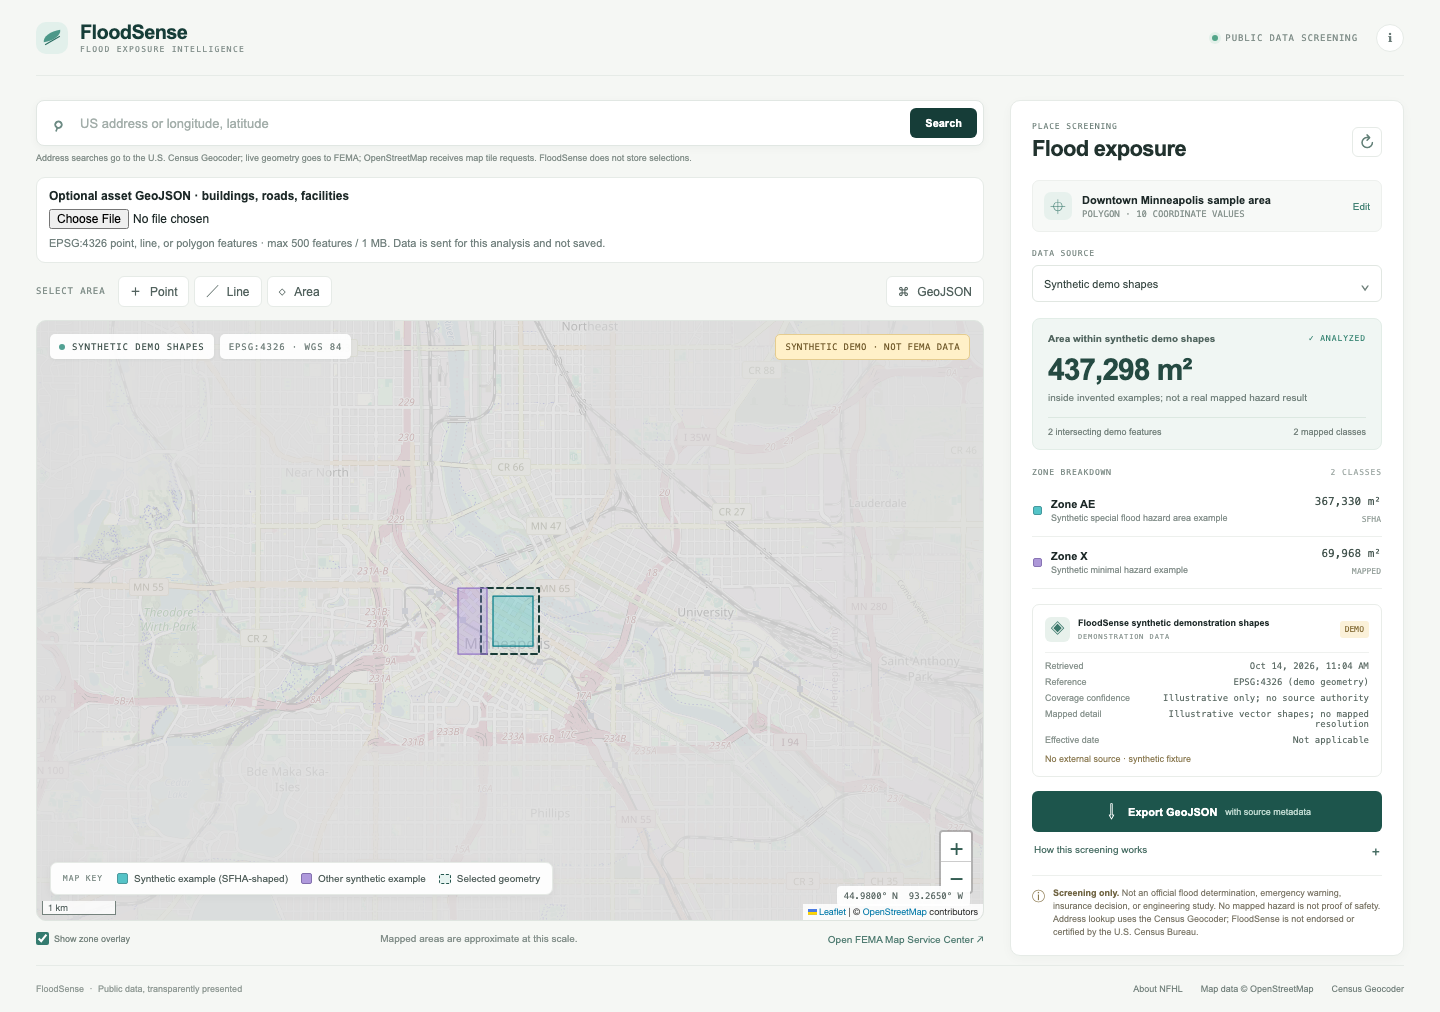
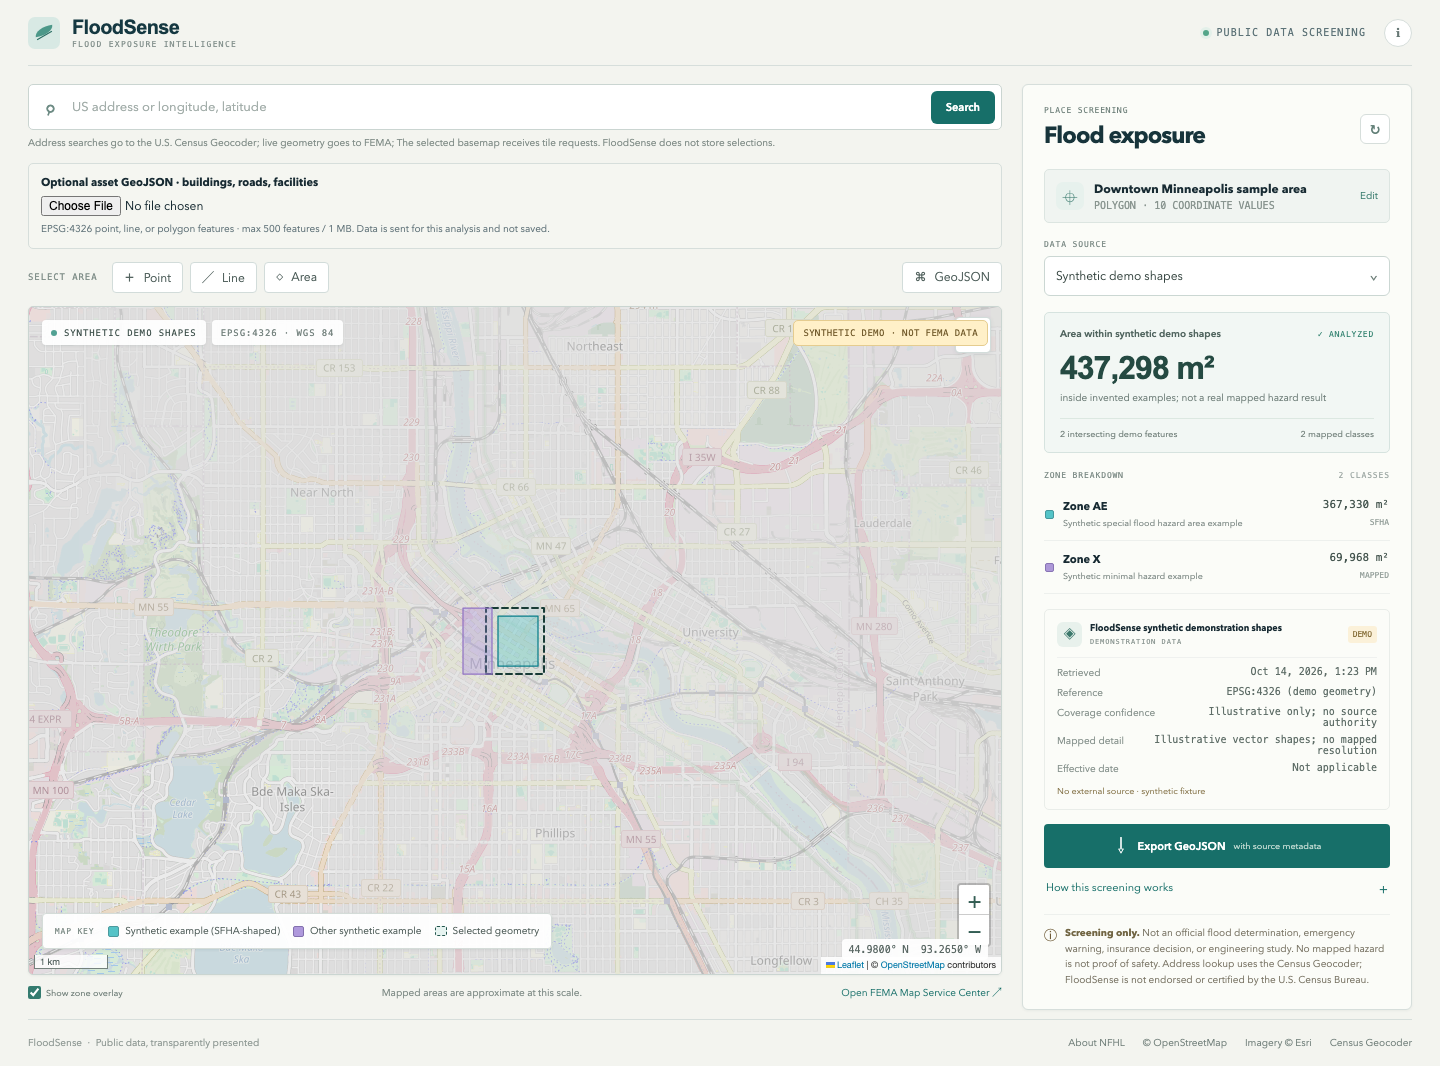
Polish FloodSense screening interface

diff --git a/src/style.css b/src/style.css
@@ -314,6 +314,8 @@ a {
   background: #fffd;
   padding: 2px 5px;
 }
+.leaflet-control-layers { border: 1px solid #d2dcda !important; border-radius: 4px !important; box-shadow: 0 1px 4px #193b3b16 !important; }
+.leaflet-control-layers-toggle { width: 34px !important; height: 34px !important; background-size: 20px 20px !important; }
 .map-shell .leaflet-control-scale-line {
   border: 1px solid #75827d;
   border-top: 0;
@@ -1170,3 +1172,15 @@ a {
   border-radius: 50%;
   background: #e7af58;
 }
+
+/* FloodSense is a map-first field instrument, with zone colors kept semantic. */
+:root{font-family:Inter,'Avenir Next',Arial,sans-serif;color:#182b33;background:#f3f4ef;--ink:#182b33;--muted:#65777d;--line:#d6dedb;--green:#166f69;--deep:#123b42;--mint:#e3efec;--gold:#c18a33;--surface:#fbfcf8}
+body{background:#f3f4ef;color:#182b33;font-size:14px}
+.app-shell{padding:0 28px}.topbar{height:66px;border-color:#d6dedb}.brand{color:#153841}.brand-mark{background:#d8e9e4;border-radius:7px}.live-indicator{color:#5d7378;font-size:10px;letter-spacing:.11em}
+.workspace{grid-template-columns:minmax(0,1fr) 390px;gap:20px;padding-top:18px}.map-column{min-width:0}.map-wrap{border:1px solid #cad5d1;border-radius:5px;box-shadow:0 1px 3px #17393a0d}.analysis-panel{background:#fbfcf8;border-color:#d6dedb;border-radius:6px;box-shadow:0 1px 3px #17393a0d;padding:21px}.panel-heading h1{font-family:Inter,'Avenir Next',Arial,sans-serif;font-size:23px;letter-spacing:-.04em;color:#17343b}
+.search-box,.asset-upload,.location-card,.summary-card,.source-card{border-radius:5px;box-shadow:none}.search-box{border-color:#cad5d1}.search-box button,.finish-button,.small-primary{background:#176f69;border-color:#176f69}.asset-upload{background:#f5f6f1;border-color:#d6dedb}.asset-upload label{font-size:11px}.asset-upload small,.search-disclosure{font-size:10px;line-height:1.5}.map-tool-row{gap:7px}.tool{border-color:#d2dcda;border-radius:4px}.tool.active{background:#e0eeeb;border-color:#77aaa1;color:#125c58}.tool-label,.eyebrow,.summary-check,.map-tag,.legend strong{letter-spacing:.1em}.map-tag,.legend{border-color:#d4dcd8;border-radius:4px;box-shadow:0 1px 3px #193b3b16}.legend{font-size:10px}.legend span{font-size:10px}.map-foot{font-size:10px}.map-foot a{color:#176f69}.map-coordinates{font-size:10px}.location-card{background:#f0f4f1;border-color:#dce5e1}.location-card strong{font-size:12px}.location-card small{font-size:10px}.source-select select{min-height:40px;border-color:#cbd7d3;font-size:12px}.summary-card{border-color:#d6e3df;background:#f2f7f4}.summary-number{font-size:32px;font-variant-numeric:tabular-nums}.summary-top,.summary-unit,.source-meta div,.source-card a{font-size:10px}.source-meta strong{font-size:10px}.disclaimer{color:#6e5b37}.disclaimer p{font-size:10px;line-height:1.55}.export-button{background:#176f69;border-radius:4px;min-height:44px}.export-button:disabled{background:#b9c8c2}.text-button,.method-copy{font-size:11px}.text-button{color:#176f69}.footer{font-size:10px}.icon-button:focus-visible,.tool:focus-visible,.search-box button:focus-visible,.export-button:focus-visible{outline:3px solid #42958d;outline-offset:2px}
+@media(max-width:1100px){.app-shell{padding:0 18px}.workspace{grid-template-columns:minmax(0,1fr) 350px;gap:14px}}
+@media(max-width:850px){.app-shell{padding:0 14px}.workspace{grid-template-columns:1fr}.map-wrap{min-height:56vh}.analysis-panel{background:#fbfcf8}}
+@media(max-width:520px){.app-shell{padding:0 10px}.analysis-panel{padding:15px}.map-wrap{min-height:420px}.legend span{font-size:9px}.search-box{height:44px}.map-coordinates{top:52px;bottom:auto;right:8px}}
+.map-shell .leaflet-tile-pane{filter:none}
+.synthetic-banner{pointer-events:none}

diff --git a/src/main.tsx b/src/main.tsx
@@ -77,22 +77,28 @@ function FloodMap({
     const mapHandle = map as MapHandle;
     mapRef.current = mapHandle;
     L.control.zoom({ position: 'bottomright' }).addTo(map);
-    const tiles = L.tileLayer(tileUrl, {
+    const streets = L.tileLayer(tileUrl, {
       maxZoom: 19,
-      attribution:
-        '&copy; <a href="https://www.openstreetmap.org/copyright">OpenStreetMap</a> contributors'
+      attribution: '&copy; <a href="https://www.openstreetmap.org/copyright">OpenStreetMap</a> contributors'
     }).addTo(map);
+    const imagery = L.tileLayer('https://server.arcgisonline.com/ArcGIS/rest/services/World_Imagery/MapServer/tile/{z}/{y}/{x}', {
+      maxZoom: 19,
+      attribution: 'Imagery &copy; <a href="https://www.esri.com/">Esri</a>, Maxar, Earthstar Geographics, and the GIS User Community'
+    });
+    L.control.layers({ 'Street map': streets, 'Satellite imagery': imagery }, undefined, { collapsed: true }).addTo(map);
     const tileWarning = new L.Control({ position: 'topright' });
     tileWarning.onAdd = () => {
       const node = L.DomUtil.create('div', 'basemap-warning');
       node.textContent = 'Basemap unavailable · geometry and results remain usable';
       node.hidden = true;
-      tiles.on('tileerror', () => {
+      streets.on('tileerror', () => {
         node.hidden = false;
       });
-      tiles.on('tileload', () => {
+      streets.on('tileload', () => {
         node.hidden = true;
       });
+      imagery.on('tileerror', () => { node.hidden = false; });
+      imagery.on('tileload', () => { node.hidden = true; });
       return node;
     };
     tileWarning.addTo(map);
@@ -228,7 +234,7 @@ function FloodMap({
 function App() {
   const [geometry, setGeometry] = useState<FloodFeature>(START);
   const [result, setResult] = useState<AnalysisResult | null>(null);
-  const [mode, setMode] = useState<'live' | 'synthetic'>('live');
+  const [mode, setMode] = useState<'live' | 'synthetic'>('synthetic');
   const [showZones, setShowZones] = useState(true);
   const [drawMode, setDrawMode] = useState<DrawMode>('');
   const [center, setCenter] = useState<[number, number]>([44.98, -93.265]);
@@ -473,7 +479,7 @@ function App() {
             </form>
             <p className="search-disclosure">
               Address searches go to the U.S. Census Geocoder; live geometry goes to FEMA;
-              OpenStreetMap receives map tile requests. FloodSense does not store selections.
+              The selected basemap receives tile requests. FloodSense does not store selections.
             </p>
             <div className="asset-upload">
               <label htmlFor="asset-file">
@@ -966,7 +972,10 @@ function App() {
             About NFHL
           </a>
           <a href="https://www.openstreetmap.org/copyright" target="_blank" rel="noreferrer">
-            Map data © OpenStreetMap
+            © OpenStreetMap
+          </a>
+          <a href="https://support.esri.com/en-us/knowledge-base/what-is-the-correct-way-to-cite-an-arcgis-online-basema-000012040" target="_blank" rel="noreferrer">
+            Imagery © Esri
           </a>
           <a
             href="https://geocoding.geo.census.gov/geocoder/Geocoding_Services_API.html"

diff --git a/test/e2e/workflow.spec.js b/test/e2e/workflow.spec.js
@@ -6,6 +6,11 @@ import { expect, test } from '@playwright/test';
 test('sample area → explicit demo source → metadata → provenance export', async ({ page }) => {
   await page.goto('/');
   await expect(page.getByRole('heading', { name: 'Flood exposure' })).toBeVisible();
+  await expect(page.getByText('SYNTHETIC DEMO · NOT FEMA DATA')).toBeVisible();
+  await expect(page.getByText('Area within synthetic demo shapes')).toBeVisible();
+  await page.locator('.leaflet-control-layers-toggle').click({ force: true });
+  await page.getByLabel('Satellite imagery').check();
+  await page.getByLabel('Street map').check();
   await page.getByLabel('DATA SOURCE').selectOption('synthetic');
   await expect(page.getByText('SYNTHETIC DEMO · NOT FEMA DATA')).toBeVisible();
   await expect(page.getByText('FloodSense synthetic demonstration shapes')).toBeVisible();
@@ -75,4 +80,17 @@ test('uploaded asset GeoJSON is screened against the selected demo zones', async
   await expect(page.getByText('ASSET-LEVEL SCREENING')).toBeVisible();
   await expect(page.getByText('USER DATA · SYNTHETIC ZONES')).toBeVisible();
   await expect(page.getByText('1 uploaded · 0 outside the selected area')).toBeVisible();
+});
+
+test('first visit is a labeled working example and fits a phone screen', async ({ page }) => {
+  await page.setViewportSize({ width: 720, height: 900 });
+  await page.goto('/');
+  await expect(page.getByText('SYNTHETIC DEMO · NOT FEMA DATA')).toBeVisible();
+  expect(await page.evaluate(() => document.documentElement.scrollWidth)).toBeLessThanOrEqual(720);
+  await page.setViewportSize({ width: 390, height: 844 });
+  await page.goto('/');
+  await expect(page.getByText('SYNTHETIC DEMO · NOT FEMA DATA')).toBeVisible();
+  await expect(page.getByText('Area within synthetic demo shapes')).toBeVisible();
+  expect(await page.evaluate(() => document.documentElement.scrollWidth)).toBeLessThanOrEqual(390);
+  await page.screenshot({ path: 'docs/screenshots/mobile.png', fullPage: true });
 });

diff --git a/server/index.ts b/server/index.ts
@@ -25,6 +25,7 @@ const tileOrigin = new URL(
   TILE_URL.replaceAll('{z}', '0').replaceAll('{x}', '0').replaceAll('{y}', '0')
 ).origin;
 if (!tileOrigin.startsWith('https://')) throw new Error('VITE_TILE_URL must use HTTPS.');
+const tileOrigins = [...new Set([tileOrigin, 'https://server.arcgisonline.com', 'https://tile.openstreetmap.org'])].join(' ');
 const cache = new Map<string, { at: number; result: AnalysisResult }>();
 const requests = new Map<string, number[]>();
 let liveQueries = 0;
@@ -44,7 +45,7 @@ app.use((req: Request, res: Response, next: NextFunction) => {
     'Referrer-Policy': 'strict-origin-when-cross-origin',
     'X-Frame-Options': 'DENY',
     'Permissions-Policy': 'camera=(), microphone=(), geolocation=()',
-    'Content-Security-Policy': `default-src 'self'; script-src 'self'; style-src 'self' 'unsafe-inline'; img-src 'self' data: blob: ${tileOrigin}; connect-src 'self'; font-src 'self'; object-src 'none'; base-uri 'self'; frame-ancestors 'none'`
+    'Content-Security-Policy': `default-src 'self'; script-src 'self'; style-src 'self' 'unsafe-inline'; img-src 'self' data: blob: ${tileOrigins}; connect-src 'self'; font-src 'self'; object-src 'none'; base-uri 'self'; frame-ancestors 'none'`
   });
   const origin = req.get('origin');
   const allowed = process.env.ALLOWED_ORIGIN

diff --git a/docs/data-sources.md b/docs/data-sources.md
@@ -6,7 +6,8 @@ Endpoints below were checked on 2026-10-14. FloodSense does not mirror or redist
 | -------------------------------------------------------------------------------------------------------------------------------------------- | ---------------------------------------------------------------------------------------------------------------------------- | ----------------------------------------------------------------------------------------------------------------------------------------------------------------------------------------------------------------------------------------------------------------------------------- | ----------------------------------------------------------------------------------------------------------------------------------------------------------------------------------------------------------------------------------------------------------------------------------------------------------------- |
 | [FEMA NFHL public ArcGIS REST service](https://hazards.fema.gov/arcgis/rest/services/public/NFHL/MapServer) — layer 28, “Flood Hazard Zones” | Effective mapped vector zones; `FLD_ZONE`, `ZONE_SUBTY`, `SFHA_TF`, and `DFIRM_ID`; query returns geometry for intersections | Layer source spatial reference is EPSG:4269 (NAD83); output requested in EPSG:4326. Effective data and map currency vary by panel. Flood-zone layer does not provide a single uniform raster resolution or panel effective date. Live query with a five-minute in-memory app cache. | [FEMA dataset catalog](https://catalog.data.gov/dataset/national-flood-hazard-layer) lists the dataset as public and links the U.S. Government Works license. Attribute as “Source: FEMA National Flood Hazard Layer (NFHL).” Direct REST service use and service limits should be rechecked before changing use. |
 | [U.S. Census Geocoder](https://geocoding.geo.census.gov/geocoder/Geocoding_Services_API.html)                                                | Single-line US address to matched address and coordinate; public-address-range benchmark                                     | Result is an address-range coordinate, not a rooftop/survey point. Benchmark is `Public_AR_Current`, and can change over time.                                                                                                                                                      | Use only for address lookup. The app says FloodSense is not endorsed or certified by the Census Bureau and links the [API terms](https://www.census.gov/data/developers/about/terms-of-service.html). Addresses are not stored by FloodSense.                                                                     |
-| [OpenStreetMap standard tiles and map data](https://www.openstreetmap.org/copyright)                                                         | Background map only; not used in exposure calculations                                                                       | Viewport-dependent requests to the required `https://tile.openstreetmap.org/{z}/{x}/{y}.png` URL; browser caching follows the provider's HTTP headers                                                                                                                               | © OpenStreetMap contributors. Follow the [tile usage policy](https://operations.osmfoundation.org/policies/tiles/), display attribution, and do not bulk download or prefetch tiles. Standard tiles are best-effort with no SLA; production traffic may need another permitted tile host.                         |
+| [OpenStreetMap standard tiles and map data](https://www.openstreetmap.org/copyright)                                                         | Default street-map background only; not used in exposure calculations                                                        | Viewport-dependent requests to `https://tile.openstreetmap.org/{z}/{x}/{y}.png`; browser caching follows the provider's HTTP headers                                                                                              | © OpenStreetMap contributors. Follow the [tile usage policy](https://operations.osmfoundation.org/policies/tiles/), display attribution, and do not bulk download or prefetch tiles. Standard tiles are best-effort with no SLA; production traffic may need another permitted tile host.                         |
+| [Esri World Imagery](https://support.esri.com/en-us/knowledge-base/what-is-the-correct-way-to-cite-an-arcgis-online-basema-000012040)           | Optional imagery basemap only; not used in exposure calculations                                                              | Source imagery and capture dates vary by location; viewport-dependent tile requests                                                                                                                                                | Show Esri and source-provider attribution; review current [Esri terms](https://www.esri.com/en-us/legal/terms/full-master-agreement) and service limits before high-volume production use.                                                                                                                                           |
 | FloodSense synthetic shapes                                                                                                                  | Demonstration fixture only; never represented as public hazard observations                                                  | Invented EPSG:4326 polygons near the Minneapolis sample viewport; no resolution, effective date, or source confidence                                                                                                                                                               | Original illustrative geometry. The UI labels every result as synthetic and not FEMA data. It is sent only when the user explicitly selects demo mode.                                                                                                                                                            |
 
 ## Source status checked

diff --git a/README.md b/README.md
@@ -2,13 +2,15 @@
 
 FloodSense is a map-based screening tool for exploring mapped flood-zone overlap around places and infrastructure. It is an educational screening application, **not** an official flood determination, emergency warning, insurance decision, engineering study, or substitute for local authorities.
 
-The starting sample is Downtown Minneapolis. Search a US street address with the U.S. Census Geocoder, or enter `longitude, latitude` in EPSG:4326. Draw a point, line, or polygon on the map, or use the GeoJSON editor as a keyboard-operable alternative. Choose FEMA effective flood zones for live results or explicitly select the clearly labeled synthetic demo shapes. Optionally load a bounded GeoJSON FeatureCollection (up to 500 point, line, or polygon assets / 1 MB) to screen user-supplied buildings, roads, or facilities against the returned polygons.
+The starting sample is Downtown Minneapolis with an explicitly labeled synthetic example, so the first visit works without an external provider. Choose FEMA effective flood zones for live results. Search a US street address with the U.S. Census Geocoder, or enter `longitude, latitude` in EPSG:4326. Draw a point, line, or polygon on the map, or use the GeoJSON editor as a keyboard-operable alternative. Optionally load a bounded GeoJSON FeatureCollection (up to 500 point, line, or polygon assets / 1 MB) to screen user-supplied buildings, roads, or facilities against the returned polygons.
 
 ## Sample screen
 
 The screenshot below is from the E2E demo flow. All overlay polygons in this view are synthetic illustrations, not FEMA data.
 
 ![FloodSense synthetic demo screening](docs/screenshots/demo.png)
+
+[Mobile workflow screenshot](docs/screenshots/mobile.png)
 
 ## Run locally
 
@@ -66,11 +68,11 @@ The main polygon total is the area inside NFHL zone polygons, including minimal-
 
 ## Data, terms, and attribution
 
-See [the source and license ledger](docs/data-sources.md), [methodology and limits](docs/methodology.md), and [deployment guide](docs/deployment.md). FEMA NFHL and US Census Geocoder are the only analytical source providers; A configurable public tile service supplies the display basemap (OpenStreetMap by default). Provider availability, map panels, geocoder benchmarks, terms, and usage policies can change. Review the linked primary documentation before changing endpoints or refreshing source behavior.
+See [the source and license ledger](docs/data-sources.md), [methodology and limits](docs/methodology.md), and [deployment guide](docs/deployment.md). FEMA NFHL and US Census Geocoder are the only analytical source providers; OpenStreetMap is the default display basemap, with Esri World Imagery available as an alternative. Basemap imagery is visual context, not flood data. Provider availability, map panels, geocoder benchmarks, terms, and usage policies can change. Review the linked primary documentation before changing endpoints or refreshing source behavior.
 
 ## Privacy and security
 
-FloodSense requires no account and stores no address or geometry persistently. Address text is sent to the U.S. Census Geocoder for matching. In live mode, the selected geometry is sent through the FloodSense backend to FEMA for spatial querying. If assets are uploaded, their GeoJSON features are sent with that request and processed in memory; they are not cached or persisted. OpenStreetMap receives requests for visible basemap tiles. FloodSense does not log request bodies or exact locations. FEMA query results and rate-limit counters are held in process memory only; provider responses use `Cache-Control: no-store` to prevent browser/proxy storage. See the disclosure beside the address search.
+FloodSense requires no account and stores no address or geometry persistently. Address text is sent to the U.S. Census Geocoder for matching. In live mode, the selected geometry is sent through the FloodSense backend to FEMA for spatial querying. If assets are uploaded, their GeoJSON features are sent with that request and processed in memory; they are not cached or persisted. The selected basemap provider receives requests for visible tiles; imagery is display-only and is not used in the analysis. FloodSense does not log request bodies or exact locations. FEMA query results and rate-limit counters are held in process memory only; provider responses use `Cache-Control: no-store` to prevent browser/proxy storage. See the disclosure beside the address search.
 
 The API uses fixed provider URLs, bounded response streaming, input/query/response limits, timeouts, one bounded retry, in-memory result caching, a four-query concurrency limit, per-IP request limits, restrictive CORS, safe error messages, and security headers. For TLS termination behind a reverse proxy, set `TRUST_PROXY_HOPS` to the exact trusted hop count; the default `0` ignores forwarded protocol and IP headers. Never set an untrusted `ALLOWED_ORIGIN` wildcard.
 
